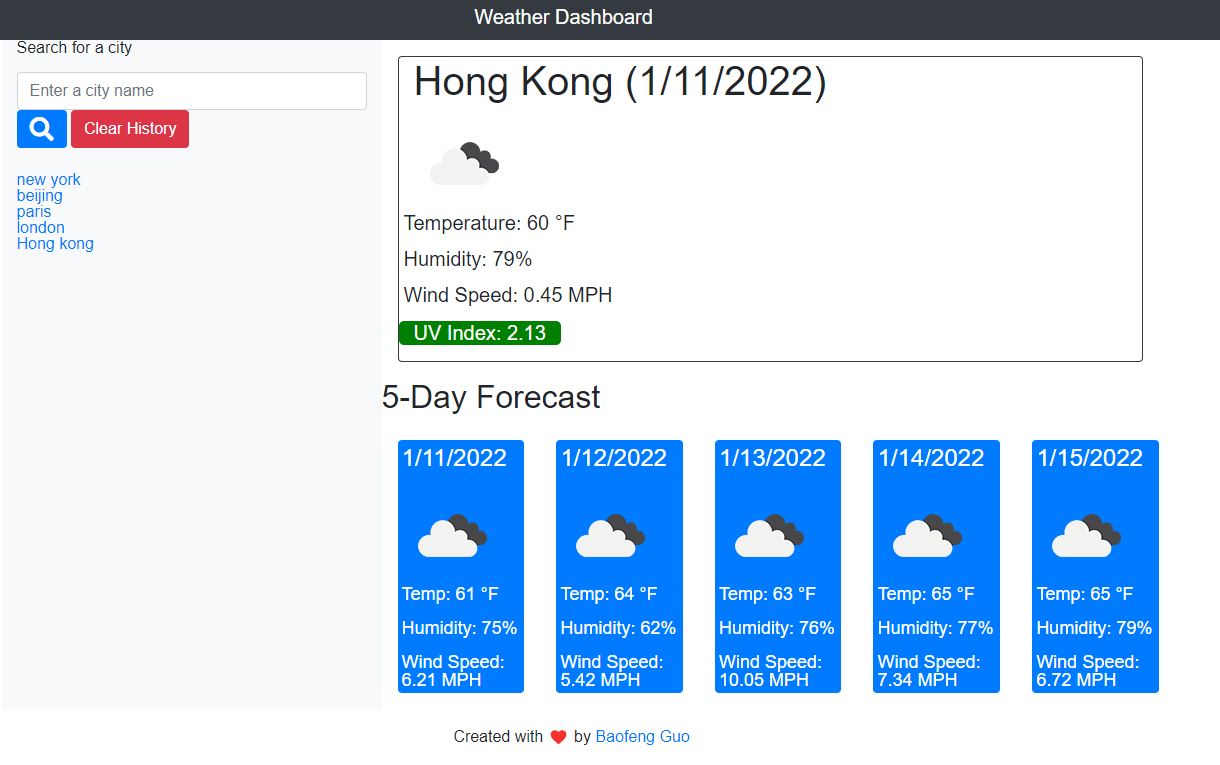
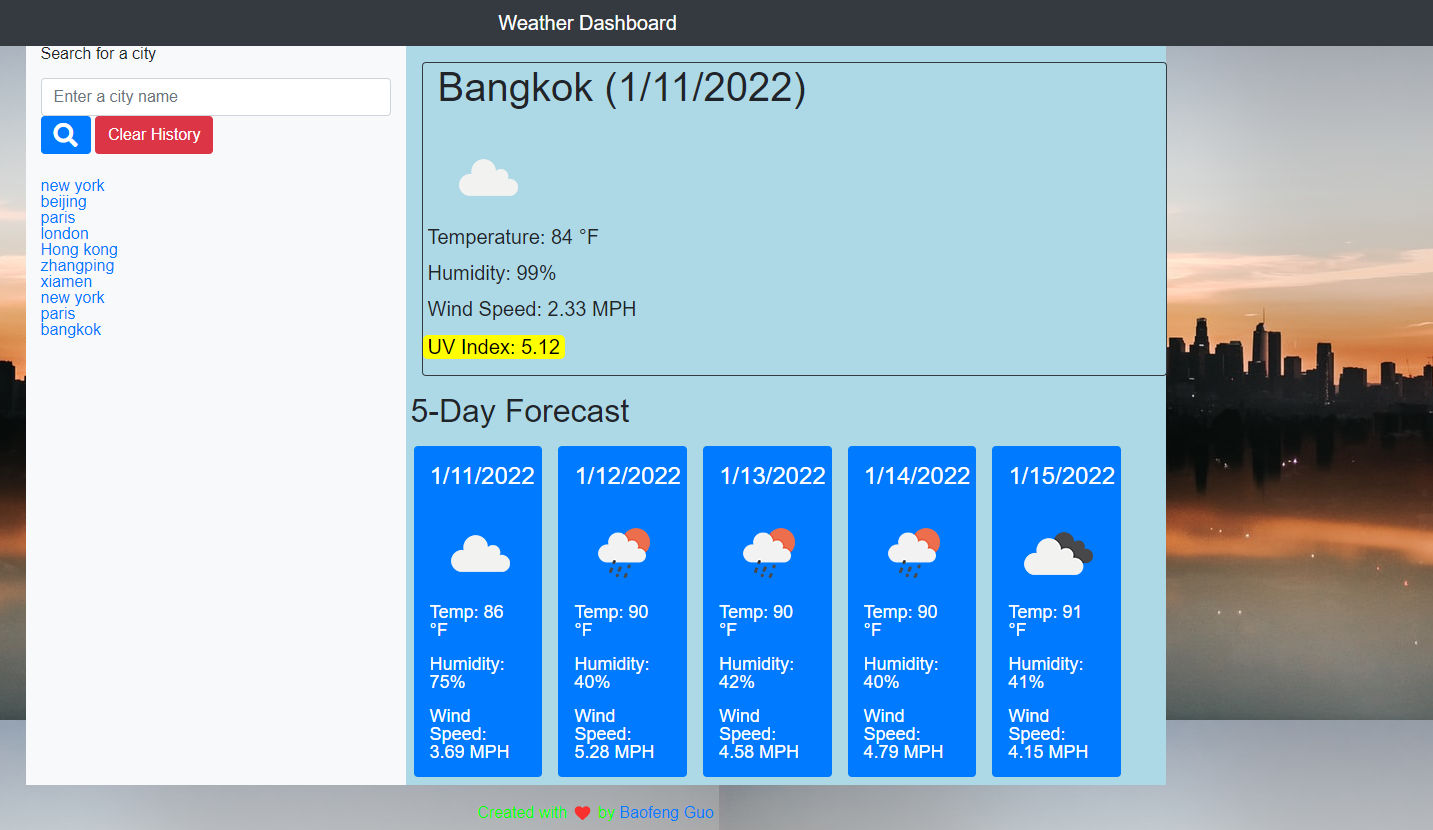
Added random picture as background image.

diff --git a/assets/style.css b/assets/style.css
@@ -1,8 +1,9 @@
 body {
-    font-family: 'Open Sans', sans-serif;
-    font-size: 16px;
-    line-height: 1;
-  }
+  font-family: 'Open Sans', sans-serif;
+  font-size: 16px;
+  line-height: 1;
+  background-image: url(https://source.unsplash.com/random/?city);
+}
 
 #navbar {
     min-height: 90px;
@@ -21,12 +22,20 @@ body {
   padding-left: 5px;
 }
 
+.col-8 {
+  background-color: lightblue;
+}
+
 .forcast-cards {
   display: flex;
   flex-direction: row;
   font-size: 18px;
 }
 
+h2{
+  border-left: 10px;
+  padding-left: 5px;
+}
 
 .uv-favorable {
   font-style: normal;
@@ -57,5 +66,6 @@ footer {
     padding: 20px;
     border-bottom: 10px;
     text-align: center;
+    color:lime;
   
   }

diff --git a/assets/script.js b/assets/script.js
@@ -109,7 +109,7 @@ function getWeather(cityName){
 
 // Create forcast cards for 5 days
 function createForecast(date, icon, temp, humidity, windSpeed) {
-    let fiveDayCardEl = $("<div>").addClass("card-panel col-sm-2 bg-primary text-white m-3 p-1 rounded");
+    let fiveDayCardEl = $("<div>").addClass("card-panel col-sm-2 bg-primary text-white m-2 p-3 rounded");
     let cardDate = $("<h4>").addClass("card-title");
     let cardIcon = $("<img>").addClass("weatherIcon");
     let cardTemp = $("<p>").addClass("card-text");

diff --git a/index.html b/index.html
@@ -35,7 +35,7 @@
                         <div class="row">
                             <div class="col-12">
                             <h1 class="cityName"></h1>
-                                <h2 class="currentDate"></h2>
+                                <p class="currentDate"></p>
                                 <img class="weather-icon"></img>
                             </div>
                         </div>

diff --git a/README.md b/README.md
@@ -13,15 +13,15 @@ This project is to build a weather dashboard that will run in the browser and fe
 * Step 2. Work on the javascript file.<br>
   On the javascript file, at first I declares a series of variables. Add event listeners to the Search and Clear button.<br>
 * Step 3. Sign up an account with openweather.org and get the APIs weather, forcast and icons. <br>
- This step is important. In this project, we need to use api to fetch data from the third-pay website. When the user searches, they will see the weather conditions of the searched city, including temperature, humidity, wind speed and UV index. <br>
+ This step is important. In this project, we need to use api to fetch data from the third-pay website. When the user searches, they will see the weather conditions of the searched city, including temperature, humidity, wind speed and UV index. UV index should be color-coded in order to show if it's favorable or not.<br>
 
 * Step 4. Creates a 5-day forcast.<br>
- <br>
+ 5 forcast cards will be created, showing the weather forcasts for 5 days, including the current day.<br>
 
 
 ## Screenshot
 
-<img src="assets\screenshot.png" alt="screenshot" />
+<img src="assets/screenshot.png" alt="screenshot" />
 
 ## Built With
 
